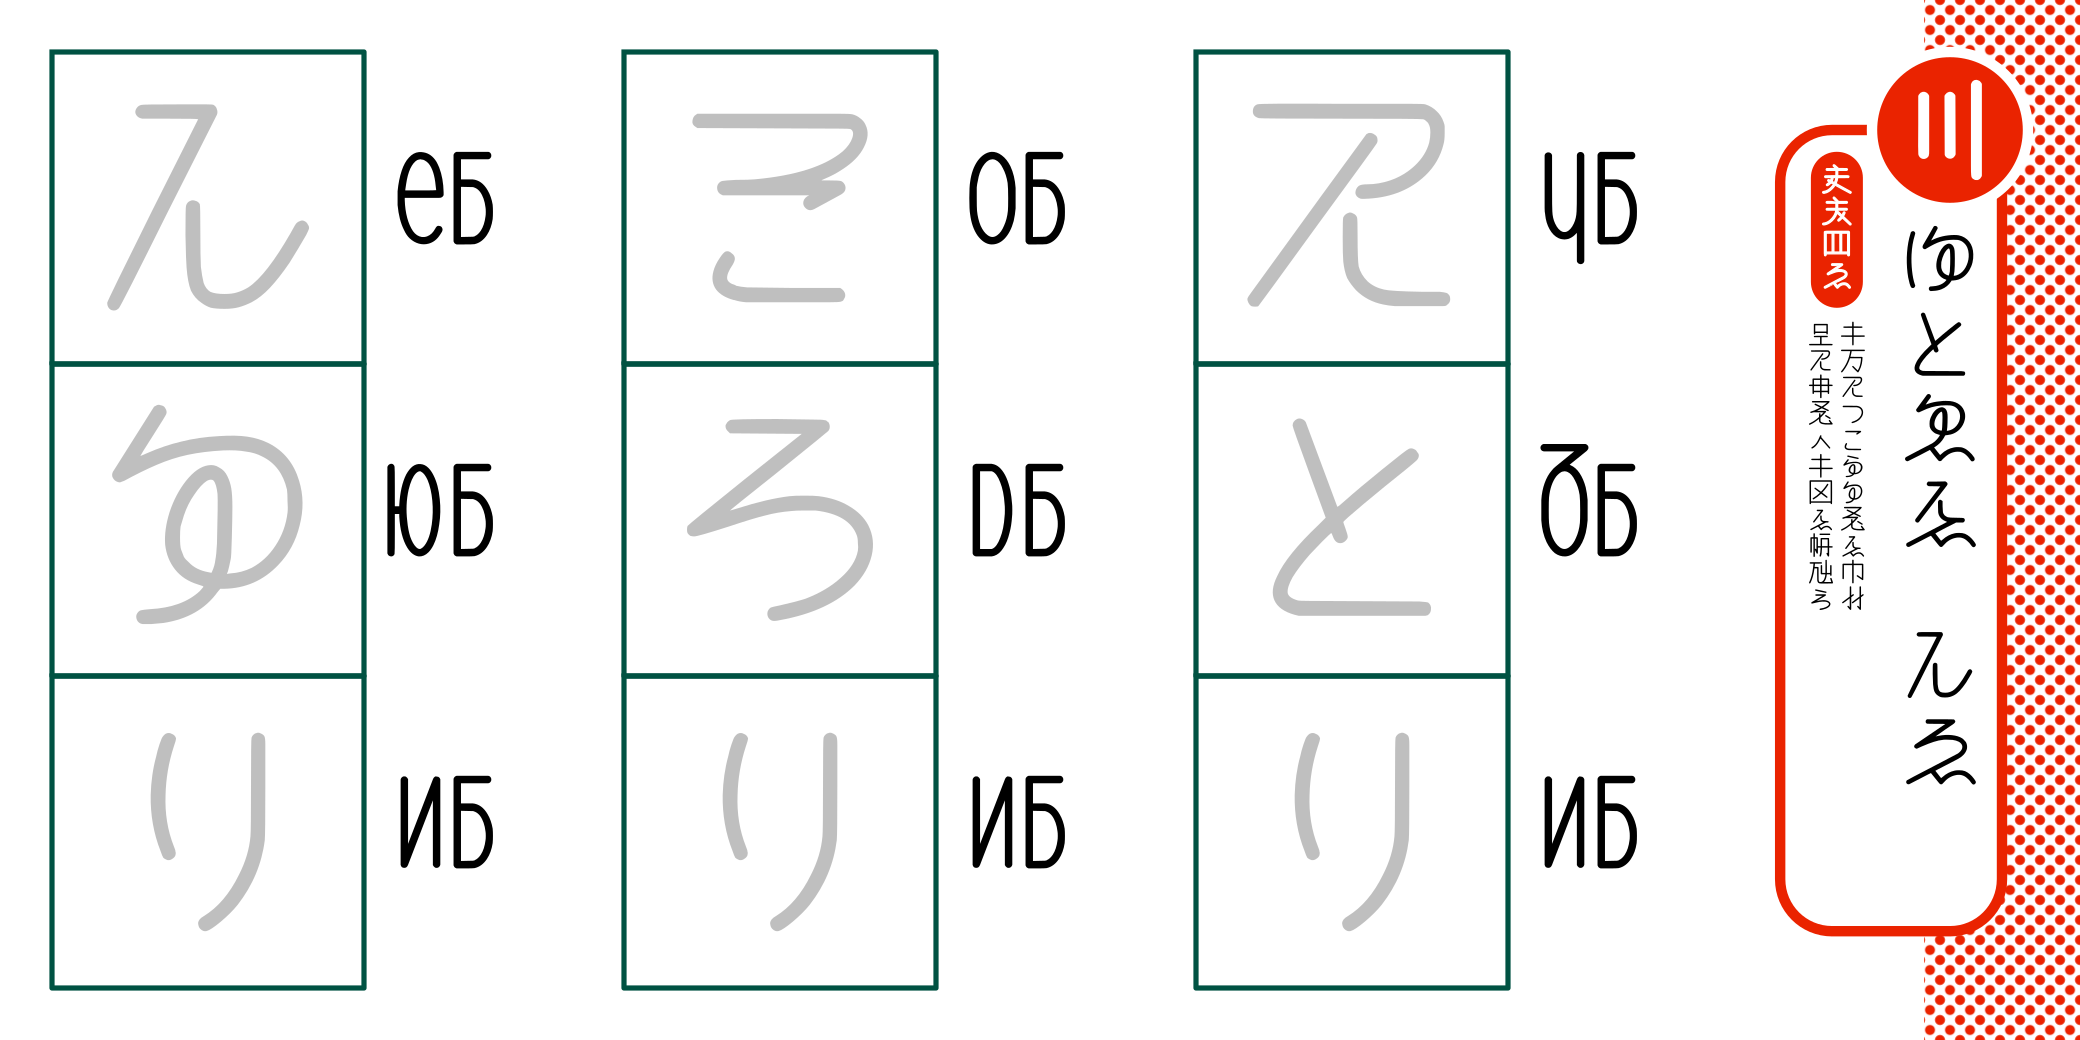
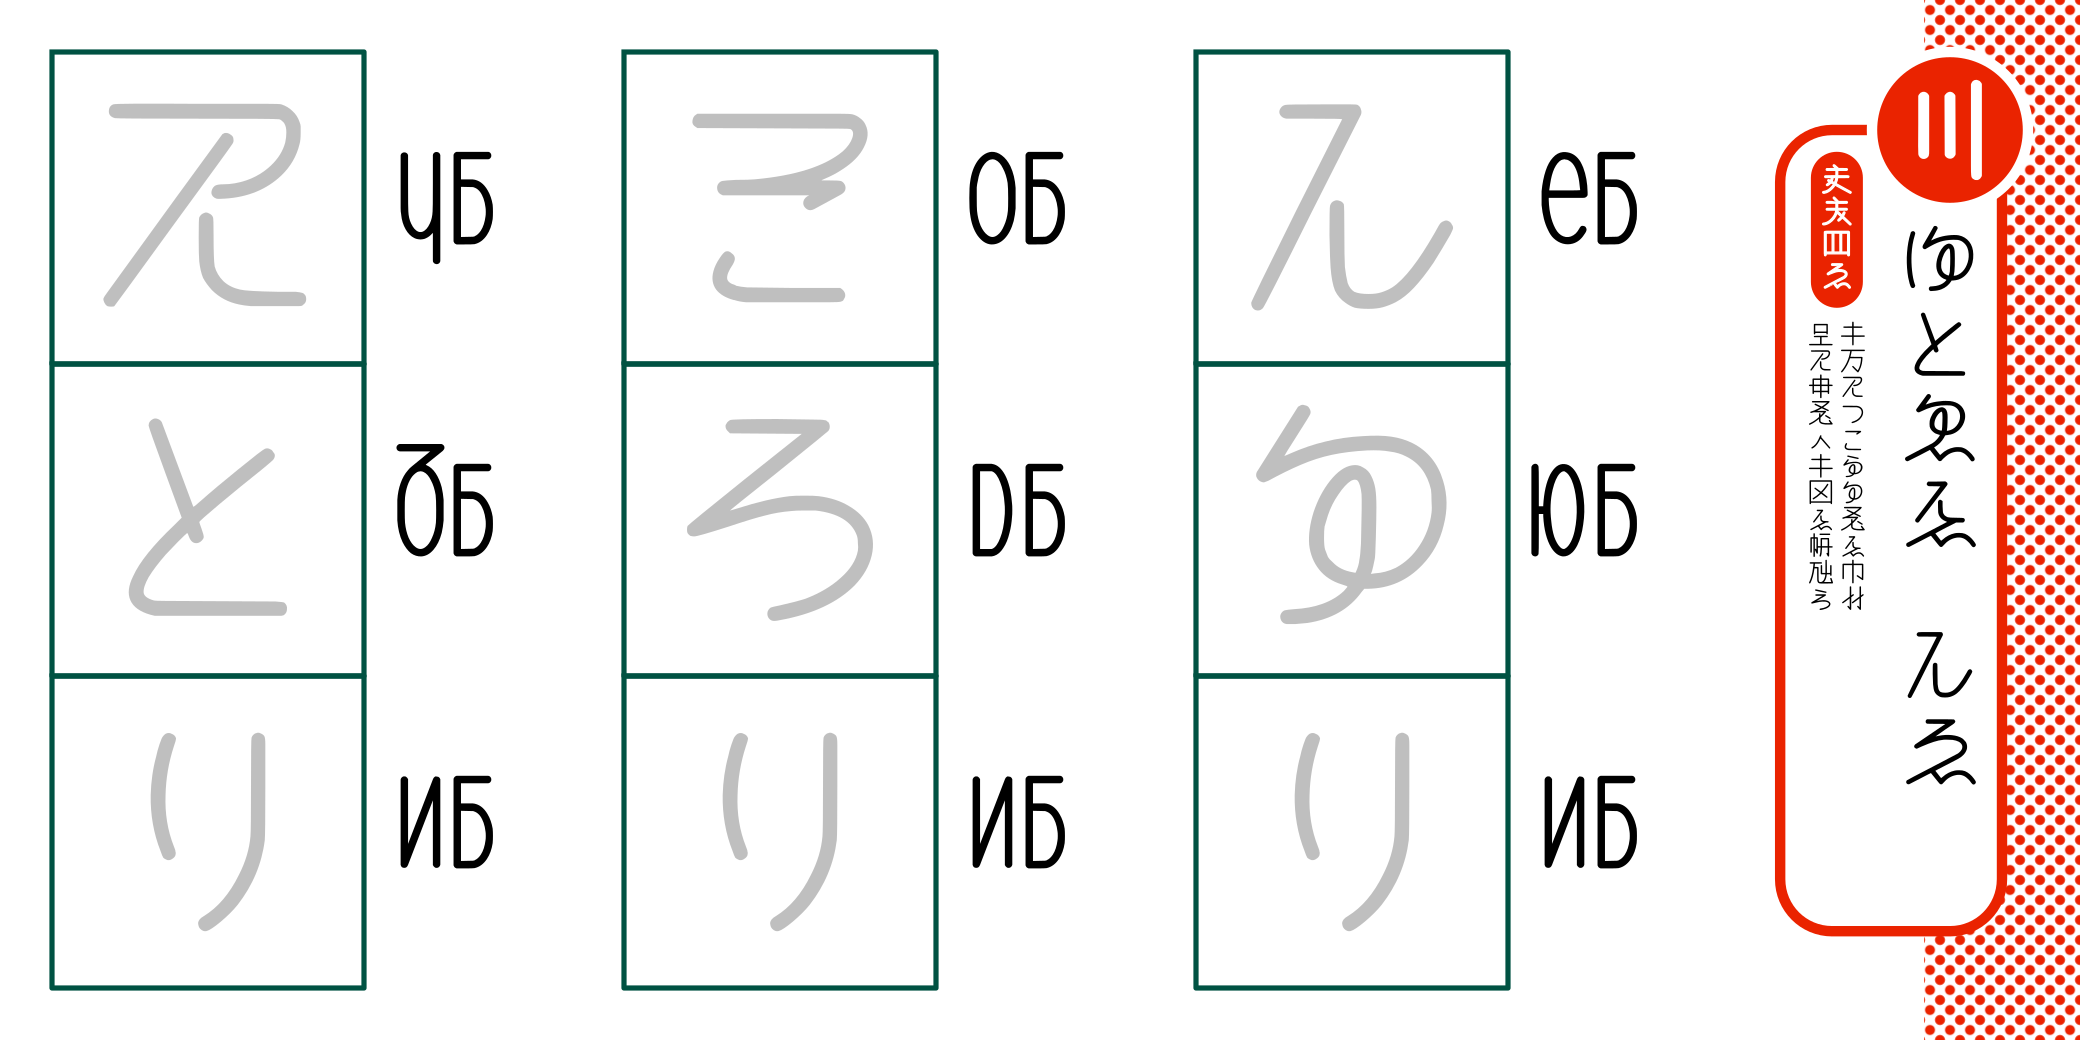
page3, page4

diff --git a/README.md b/README.md
@@ -58,3 +58,17 @@
 軸声やあうぬな字き筆即
 子や皇字之軸形き学能す
 ```
+
+### page 4
+
+![](./page4.png)
+
+![](./page4.svg)
+
+```
+うもそのき　かし
+【うもそのき筆し】
+
+う声唯うぬな形や
+軸声之う処同無噫
+```
